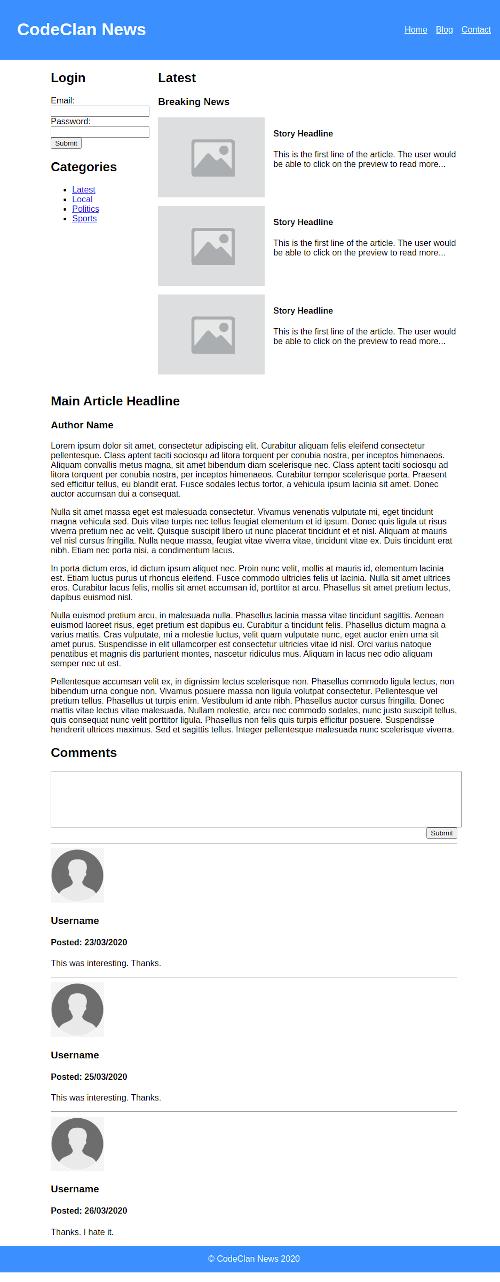
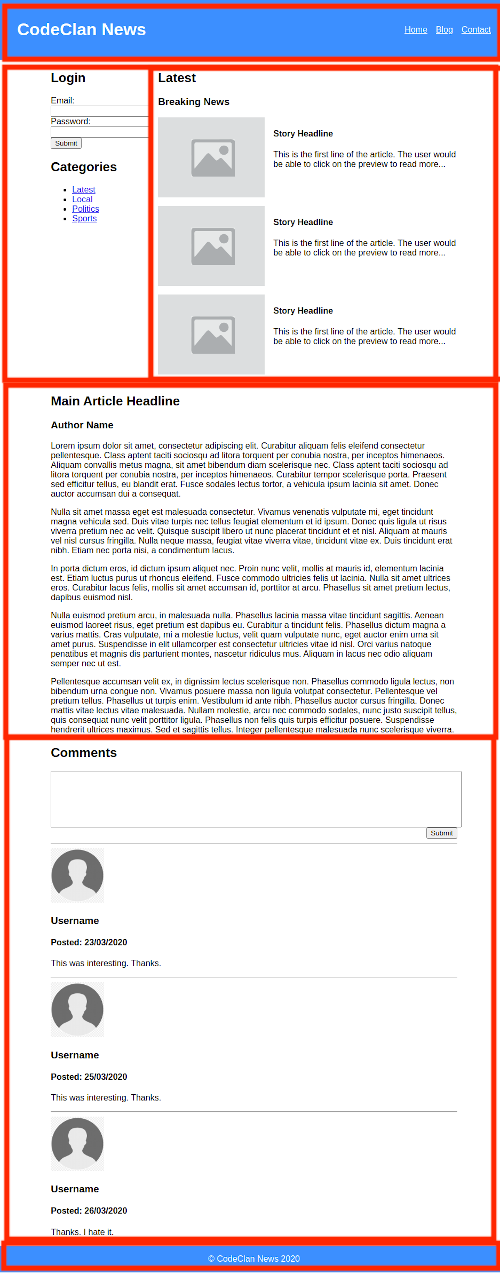
added skeleton structure to html

Changed region(s): [[0.0, 0.0, 1.0, 0.9984]]

diff --git a/index.html b/index.html
@@ -1,0 +1,37 @@
+<!DOCTYPE html>
+<html lang="en">
+<head>
+    <meta charset="UTF-8">
+    <meta name="viewport" content="width=device-width, initial-scale=1.0">
+    <link rel="stylesheet" href="style.css">
+    <title>CodeClan News</title>
+</head>
+<body>
+    <header>
+        <!-- CodeClan News and links -->
+    </header>
+    <main>
+        <section>
+            <article>
+                <!-- Latest / breaking news-->
+            </article>
+            <aside>
+                <!-- Login and categories -->
+            </aside>
+        </section>
+
+        <section>
+            <article>
+                <!-- Main article -->
+            </article>
+        </section>
+        
+        <section>
+            <!-- section for comments -->
+        </section>
+    </main>
+    <footer>
+        <!-- section for copywrite CodeClan News -->
+    </footer>
+</body>
+</html>
